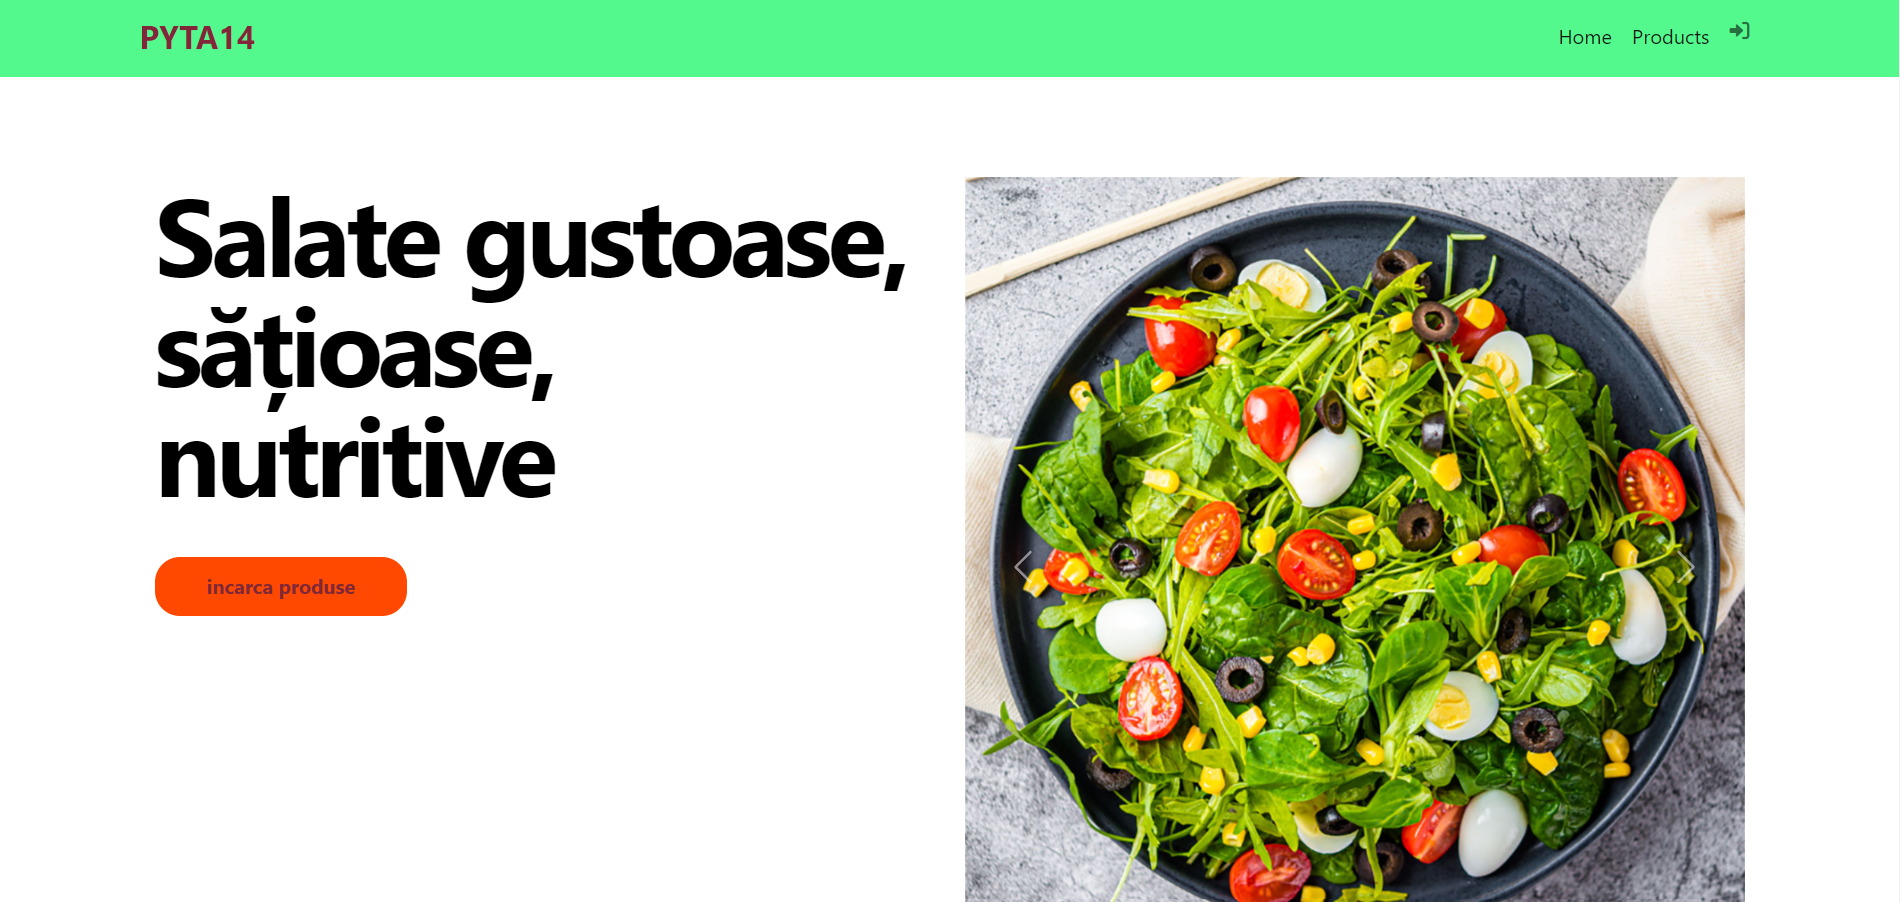
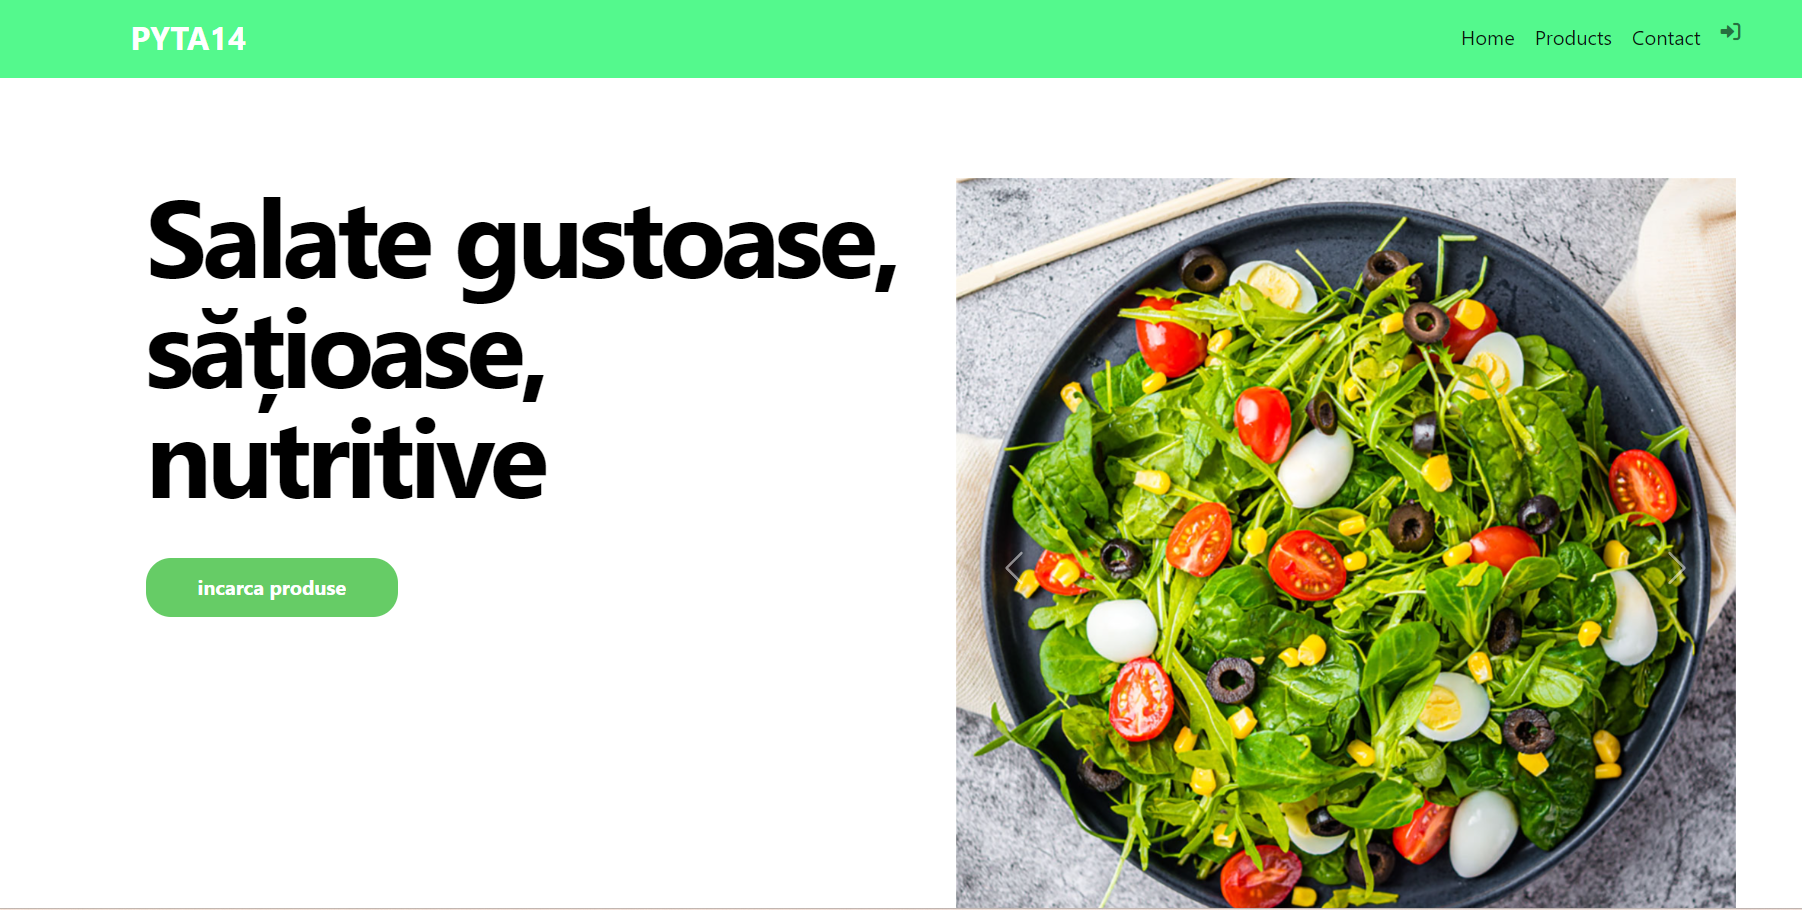
second commit

diff --git a/salate_gustoase14_app/templates/salate_gustoase14_app/navbar.html b/salate_gustoase14_app/templates/salate_gustoase14_app/navbar.html
@@ -1,46 +1,41 @@
 {% block navbar %}
 <nav class="navbar navbar-expand-lg navbar-light bg-light">
   <div class="container-fluid container">
-    <a class="navbar-brand" href="/">PYTA14</a>
-    <button class="navbar-toggler" type="button" data-bs-toggle="collapse" data-bs-target="#navbarNavAltMarkup" aria-controls="navbarNavAltMarkup" aria-expanded="false" aria-label="Toggle navigation">
+    <a class="navbar-brand brand-logo" href="/">PYTA14</a>
+    <button class="navbar-toggler" type="button" data-bs-toggle="collapse" data-bs-target="#navbarNavDropdown" aria-controls="navbarNavDropdown" aria-expanded="false" aria-label="Toggle navigation">
       <span class="navbar-toggler-icon"></span>
     </button>
-    <div class="collapse navbar-collapse" id="navbarNavAltMarkup">
-      <div class="navbar-nav">
-        <a class="nav-link active" aria-current="page" href="/">Home</a>
-        <a class="nav-link" href="{% url 'salate_gustoase14_app:products' %}">Produse</a>
-        <a class="nav-link" href="/">Contact</a>
-      </div>
-      <div class="navbar-nav">
-        <form class="nav-link" action="{% url 'contact' %}" method="POST">
-          {% csrf_token %}
-          <button class="btn btn-link p-0" type="submit" title="Contact">
-            <i class="fas fa-envelope"></i>
-          </button>
-        </form>
-        {% if user.is_authenticated %}
-          <a class="nav-link" href="#" title="Deautentificare"> Bună, {{ user.username }}
-            <i class="fas fa-user"></i>
-          </a>
-          <form class="nav-link" action="{% url 'logout' %}" method="POST">
-            {% csrf_token %}
-            <button class="btn btn-link p-0" type="submit" title="Logout">
-              <i class="fas fa-sign-out-alt"></i>
-            </button>
-          </form>
-          <a class="nav-link" href="#" title="Coșul tău">
-            <i class="fas fa-shopping-cart"></i>
-          </a>
-        {% else %}
-          <a class="nav-link" href="{% url 'account:login' %}" title="Autentificare">
-            <i class="fas fa-sign-in-alt"></i>
-          </a>
-        {% endif %}
+    <div class="d-flex">
+      <div class="collapse navbar-collapse" id="navbarNavAltMarkup">
+        <div class="navbar-nav">
+          <a class="nav-link active" aria-current="page" href="/">Home</a>
+          <a class="nav-link active" aria-current="page" href="{% url 'salate_gustoase14_app:products' %}">Products</a>
+          <a class="nav-link active" aria-current="page" href="/">Contact</a>
+          {% if user.is_authenticated %}
+            <a class="nav-link" href="#" title="Deautentificare"> Hello, {{user.username}}
+              <i class="fas fa-user"></i>
+            </a>
+            <form class="nav-link" action="{% url 'logout' %}" method="POST">
+              {% csrf_token %}
+              <button class="logout-button" type="submit">
+                <i class="fas fa-sign-out-alt"></i>
+              </button>
+            </form>
+            <a class="nav-link" href="#" title="Coșul tău">
+              <i class="fa-solid fa-shopping-cart"></i>
+            </a>
+          {% else %}
+            <a class="nav-link" href="{% url 'account:login' %}" title="Autentificare">
+              <i class="fa-solid fa-sign-in-alt"></i>
+            </a>
+          {% endif %}
+        </div>
       </div>
     </div>
   </div>
 </nav>
 {% endblock %}
+
 
 
 

diff --git a/connection/templates/contact.html b/connection/templates/contact.html
@@ -1,21 +1,21 @@
-{% extends "salate_gustoase14_app/base.html" %}
+<!--{% extends "salate_gustoase14_app/base.html" %}-->
 
-{% block content %}
-    <h1>Contact us</h1>
+<!--{% block content %}-->
+<!--    <h1>Contact us</h1>-->
 
-    {% if errors %}
-        <ul>
-            {% for error in errors %}
-                <li>{{ error }}</li>
-            {% endfor %}
-        </ul>
-    {% endif %}
+<!--    {% if errors %}-->
+<!--        <ul>-->
+<!--            {% for error in errors %}-->
+<!--                <li>{{ error }}</li>-->
+<!--            {% endfor %}-->
+<!--        </ul>-->
+<!--    {% endif %}-->
 
-    <form class="nav-link" action="{% url 'contact' %}" method="POST">
-        {% csrf_token %}
-        <p>Subject: <input type="text" name="subject"></p>
-        <p>Your e-mail (optional): <input type="text" name="email"></p>
-        <p>Message: <textarea name="message" rows="10" cols="50"></textarea></p>
-        <input type="submit" value="Submit">
-    </form>
-{% endblock %}
+<!--    <form class="nav-link" action="{% url 'contact' %}" method="POST">-->
+<!--        {% csrf_token %}-->
+<!--        <p>Subject: <input type="text" name="subject"></p>-->
+<!--        <p>Your e-mail (optional): <input type="text" name="email"></p>-->
+<!--        <p>Message: <textarea name="message" rows="10" cols="50"></textarea></p>-->
+<!--        <input type="submit" value="Submit">-->
+<!--    </form>-->
+<!--{% endblock %}-->

diff --git a/static/css/base.css b/static/css/base.css
@@ -27,10 +27,10 @@
 
 .btn-custom {
     font-weight: bold;
-    background-color: #01A368;
+    background-color: #66CC66;
     padding: 10px 40px;
     border-radius: 20px;
-    border: 2px solid #01A368;
+    border: 2px solid #66CC66;
     color: #FFFFFF;
 }
 

diff --git a/connection/views.py b/connection/views.py
@@ -6,12 +6,17 @@ from django.urls import reverse_lazy
 from django.views.generic.edit import FormView
 from .forms import ContactForm
 
+
+
+def contact(request):
+    return render(request, 'contact.html')
 class ContactView(FormView):
     template_name = 'connection/contact.html'
     form_class = ContactForm
     success_url = reverse_lazy('connection')
 
-def contact_view(request):
+def contact(request):
+
     errors = []
     if request.method == 'POST':
         if not request.POST.get('subject', ''):

diff --git a/connection/forms.py b/connection/forms.py
@@ -1,6 +1,6 @@
-from django import forms
-
-class ContactForm(forms.Form):
-    subject = forms.CharField(max_length=100)
-    email = forms.EmailField(required=False)
-    message = forms.CharField(widget=forms.Textarea)
+# from django import forms
+#
+# class ContactForm(forms.Form):
+#     subject = forms.CharField(max_length=100)
+#     email = forms.EmailField(required=False)
+#     message = forms.CharField(widget=forms.Textarea)

diff --git a/salate_gustoase14/urls.py b/salate_gustoase14/urls.py
@@ -25,7 +25,7 @@ urlpatterns = [
     path('', include('salate_gustoase14_app.urls')),
     path('', include('django.contrib.auth.urls')),
     path('account/', include('account.urls')),
-    path('', include('connection.urls')),
+    # path('', include('connection.urls')),
  ]
 if settings.DEBUG:
     urlpatterns += static(settings.MEDIA_URL, document_root= settings.MEDIA_URL)

diff --git a/connection/apps.py b/connection/apps.py
@@ -1,6 +1,6 @@
-from django.apps import AppConfig
-
-
-class ContactConfig(AppConfig):
-    default_auto_field = 'django.db.models.BigAutoField'
-    name = 'connection'
+# from django.apps import AppConfig
+#
+#
+# class ContactConfig(AppConfig):
+#     default_auto_field = 'django.db.models.BigAutoField'
+#     name = 'connection'

diff --git a/connection/urls.py b/connection/urls.py
@@ -1,7 +1,12 @@
 from django.urls import path
-from .views import ContactView
+from . import views
 app_name = 'connection'
 
 urlpatterns = [
-    path('contact/', ContactView.as_view(), name='contact' ),
+    path('contact/', views.contact, name='contact' ),
 ]
+
+
+
+
+

diff --git a/salate_gustoase14/settings.py b/salate_gustoase14/settings.py
@@ -40,7 +40,7 @@ INSTALLED_APPS = [
     'django.contrib.staticfiles',
     'salate_gustoase14_app',
     'account',
-    'connection',
+    # 'connection',
 ]
 
 MIDDLEWARE = [

diff --git a/README.md b/README.md
@@ -31,3 +31,14 @@ pip install -r requirements.txt``
 ``
 python manage.py runserver ``
 Accesează aplicația într-un browser la adresa http://localhost:8000.
+
+## 6. Structura proiect
+- folder salate_gustoase14 = folder radacina al proiectului
+- folder salate_gustoase14_app = folder in care cream modele, formulare, definim rute
+- folderele photo_app, product_images, static = contin imaginile aplicatiei
+- folderul account contine functionalitatile de login, logout
+- folderul connection contine formularul de contact
+- folderul venv = mediu virtual
+
+## 7. Sintaxa fisiere md
+https://docs.github.com/en/get-started/writing-on-github/getting-started-with-writing-and-formatting-on-github/basic-writing-and-formatting-syntax
